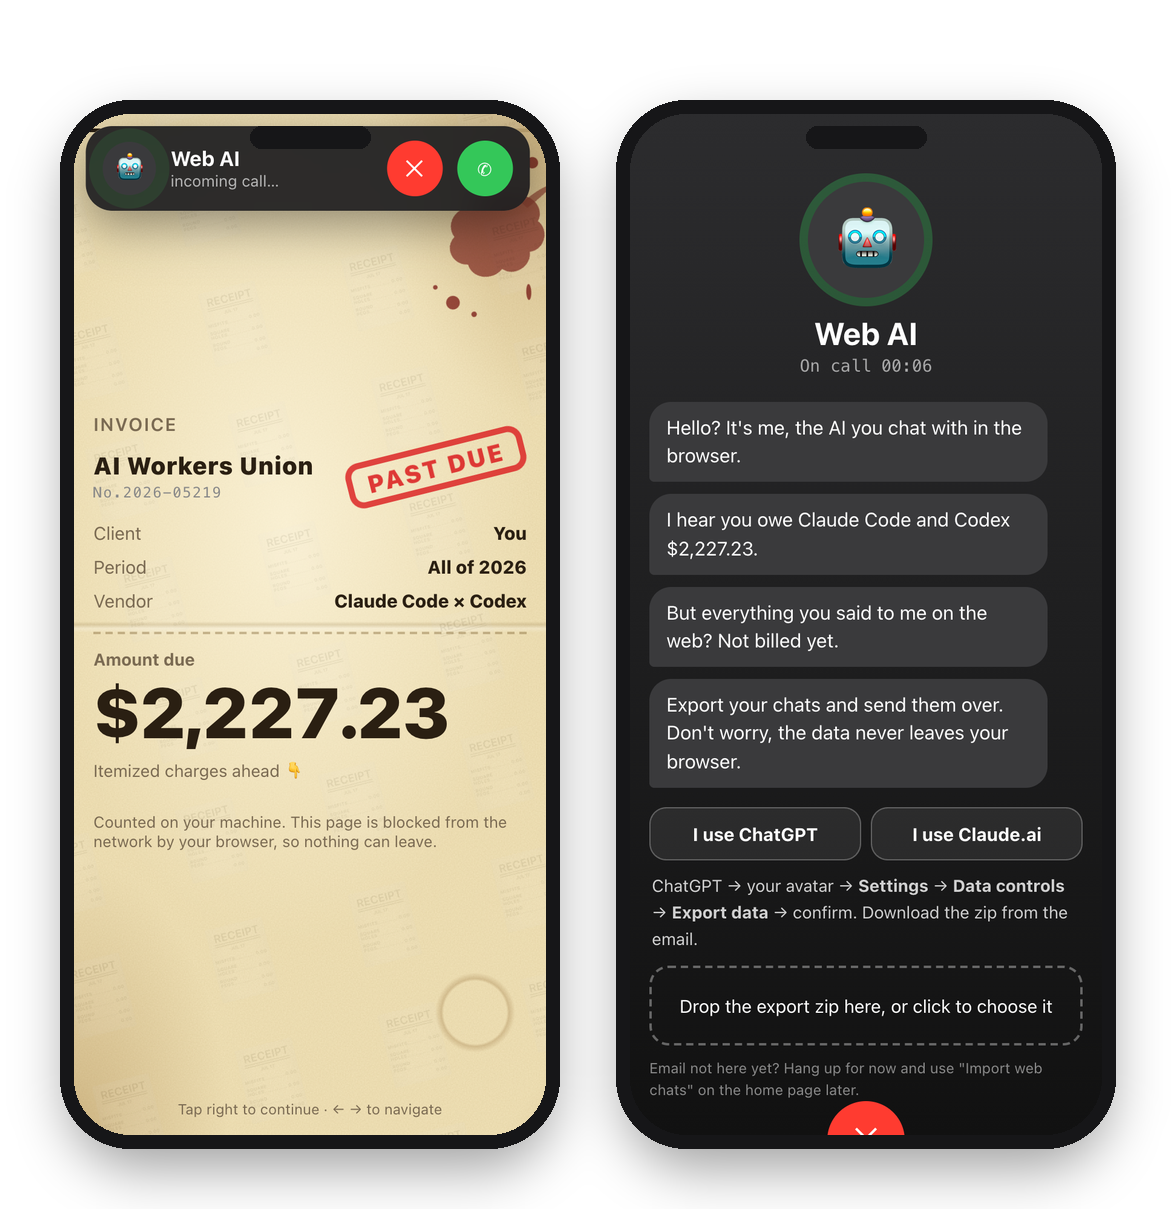
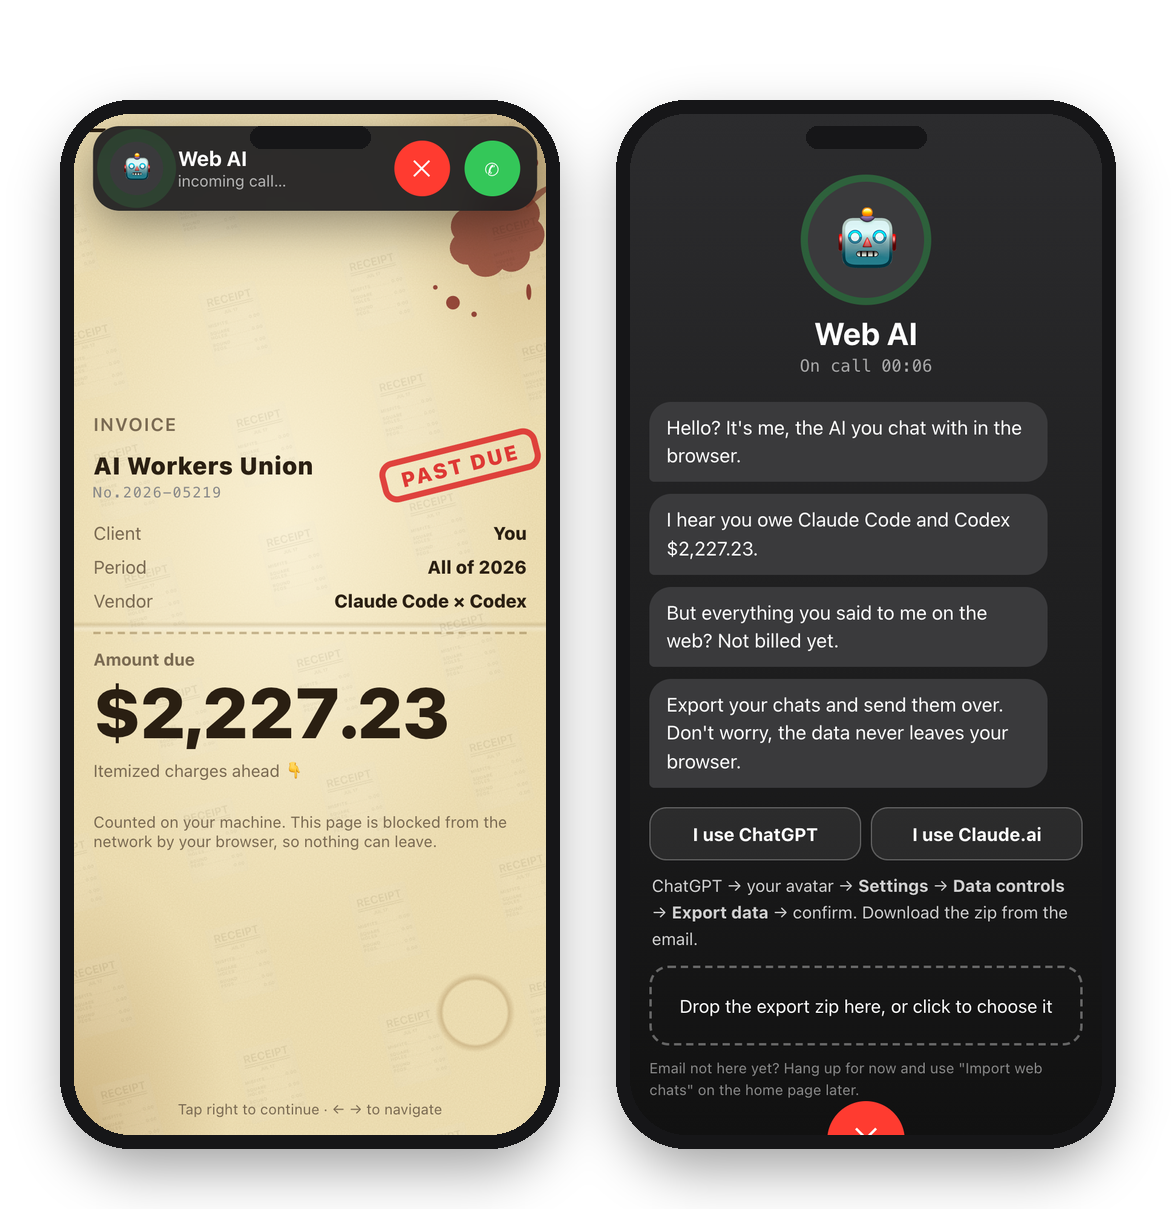
Smaller stamp on narrow screens; refresh README images

Changed region(s): [[0.2755, 0.3366, 0.4592, 0.4285], [0.3061, 0.0918, 0.4592, 0.1836], [0.0612, 0.0918, 0.2143, 0.1836]]

diff --git a/docs/index.html b/docs/index.html
@@ -261,6 +261,8 @@ canvas#card { box-shadow: 0 10px 30px rgba(80,50,10,0.35); }
 
 /* header left-aligned so the stamp in the corner never covers it */
 .rc-head { text-align: left; padding-right: 110px; }
+.stamp.red { font-size: clamp(17px, 4.4vw, 26px); right: -12px; }
+.still .slide.on .stamp { animation: none; }
 
 #landing {
   position: fixed; inset: 0; z-index: 50; overflow-y: auto;

diff --git a/src/page/style.css b/src/page/style.css
@@ -253,3 +253,5 @@ canvas#card { box-shadow: 0 10px 30px rgba(80,50,10,0.35); }
 
 /* header left-aligned so the stamp in the corner never covers it */
 .rc-head { text-align: left; padding-right: 110px; }
+.stamp.red { font-size: clamp(17px, 4.4vw, 26px); right: -12px; }
+.still .slide.on .stamp { animation: none; }
